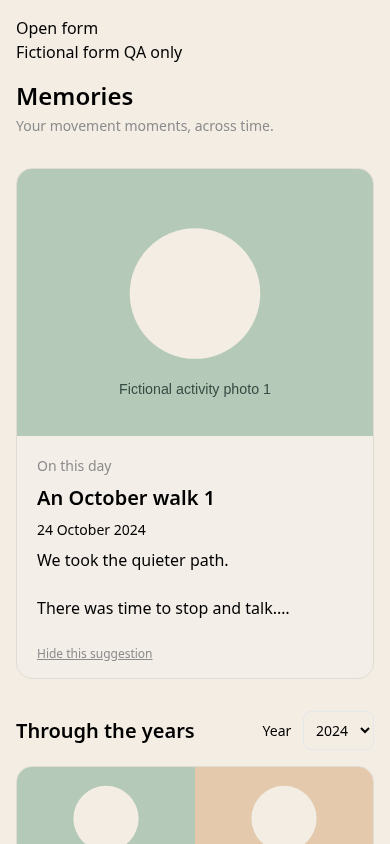
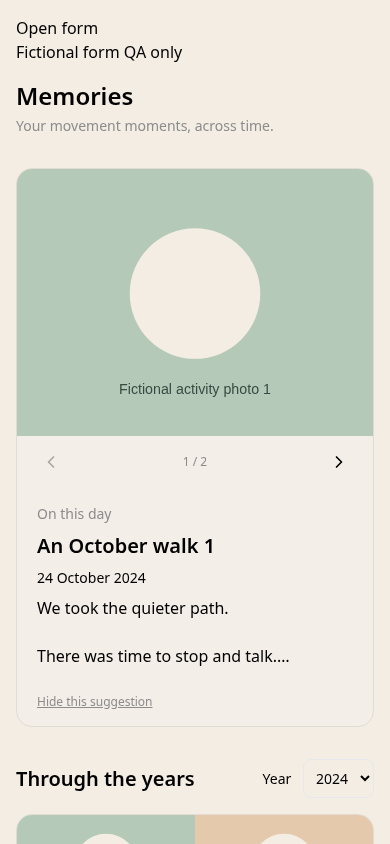
Nav update

diff --git a/src/pages/MemoriesPage.tsx b/src/pages/MemoriesPage.tsx
@@ -7,6 +7,7 @@ import { getActivityPhotos } from '../lib/photos';
 import { ACTIVITY_TYPES } from '../config/activityTypes';
 import { signStorageValues } from '../services/storage.service';
 import { supabase } from '../supabaseClient';
+import MemoryHighlightPhotos from '../components/MemoryHighlightPhotos';
 
 function Photo({path,urls,className=''}:{path?:string|null;urls:Record<string,string>;className?:string}) {
   return path&&urls[path] ? <img loading="lazy" src={urls[path]} alt="" className={className} onError={e=>{e.currentTarget.style.display='none';}}/> : null;
@@ -52,7 +53,7 @@ export default function MemoriesPage() {
   const more=async()=>{if(!month||pageLoading)return;const ticket=request.current;setPageLoading(true);setPageError(false);try{const range=monthRange(month);const data=await memoryPage(range.start,range.end,rows.at(-1));if(ticket!==request.current)return;setRows(prev=>[...prev,...data]);setHasMore(data.length===40);}catch{setPageError(true);}finally{if(ticket===request.current)setPageLoading(false);}};
   useEffect(()=>{
     let cancelled=false;
-    const paths=[...months.filter(m=>m.month.startsWith(year||'')).flatMap(m=>m.thumbs||[]),...rows.flatMap(r=>getActivityPhotos(r).slice(0,1).map(p=>p.thumb_path||p.image_path)),...(feature?.activity?getActivityPhotos(feature.activity).slice(0,1).map(p=>p.image_path||p.thumb_path):[])].filter((p):p is string=>!!p);
+    const paths=[...months.filter(m=>m.month.startsWith(year||'')).flatMap(m=>m.thumbs||[]),...rows.flatMap(r=>getActivityPhotos(r).slice(0,1).map(p=>p.thumb_path||p.image_path)),...(feature?.activity?getActivityPhotos(feature.activity).map(p=>p.image_path||p.thumb_path):[])].filter((p):p is string=>!!p);
     void signStorageValues([...new Set(paths)]).then(signed=>{if(!cancelled)setUrls(signed);}).catch(()=>{});
     return()=>{cancelled=true;};
   },[months,rows,feature,year]);
@@ -71,8 +72,9 @@ export default function MemoriesPage() {
     <header><h1 className="text-2xl font-semibold">Memories</h1><p className="text-sm text-movenotes-muted mt-1">Your movement moments, across time.</p></header>
     {!months.length&&<p className="py-10 text-movenotes-muted">Your activities will be here to revisit whenever you like.</p>}
     {!month&&feature?.activity&&<section ref={featureElement} className="rounded-2xl overflow-hidden border border-movenotes-border bg-movenotes-surface">
+      <MemoryHighlightPhotos key={`${feature.activity.id}:${getActivityPhotos(feature.activity).map(photo=>photo.id).join(',')}`} photos={getActivityPhotos(feature.activity)} urls={urls}
+        onOpen={photoId=>openMemory(feature.activity!.id,{...monthRange(feature.activity!.date.slice(0,7)),photoId})}/>
       <button className="w-full text-left" onClick={()=>openMemory(feature.activity!.id,monthRange(feature.activity!.date.slice(0,7)))}>
-        <Photo path={getActivityPhotos(feature.activity)[0]?.image_path||getActivityPhotos(feature.activity)[0]?.thumb_path} urls={urls} className="w-full max-h-80 object-cover"/>
         <div className="p-5 space-y-2"><p className="text-sm text-movenotes-muted">{featureLabels[feature.tier??2]}</p><h2 className="text-xl font-semibold">{feature.activity.title||ACTIVITY_TYPES[feature.activity.type]?.label||'Activity'}</h2><p className="text-sm">{new Date(`${feature.activity.date}T12:00:00`).toLocaleDateString('en-GB',{day:'numeric',month:'long',year:'numeric'})}</p>{feature.activity.notes&&<p className="line-clamp-3 whitespace-pre-wrap">{feature.activity.notes.slice(0,180)}</p>}</div>
       </button>
       <button className="text-xs underline px-5 pb-4 text-movenotes-muted" onClick={()=>{setHideError(false);void memoryFeatureAction(feature.day,feature.id!,true).then(()=>setFeature(null)).catch(()=>setHideError(true));}}>Hide this suggestion</button>{hideError&&<p role="alert" className="px-5 pb-3 text-sm">Couldn't hide this suggestion. Please try again.</p>}

diff --git a/src/components/Layout.tsx b/src/components/Layout.tsx
@@ -9,6 +9,8 @@ import {
 import { Link, useLocation, useNavigate } from "react-router-dom";
 import Sidebar from "./Sidebar";
 import AppHeader from "./AppHeader";
+import { BookOpen, Users, ChartLine } from "lucide-react";
+import MemoriesAlbumIcon from "./MemoriesAlbumIcon";
 import { usePwaInstallBanner } from "../hooks/usePwaInstallBanner";
 import PwaInstallBanner from "./PwaInstallBanner";
 import { LayoutChromeContext } from "../contexts/LayoutChromeContext";
@@ -255,7 +257,7 @@ export default function Layout({
         mx-auto 
         w-full 
         max-w-md sm:max-w-lg md:max-w-2xl lg:max-w-3xl 
-        px-4 pb-20 pt-2
+        px-4 pb-[calc(104px+env(safe-area-inset-bottom))] pt-2
       "
         >
           {/* Page content */}
@@ -270,6 +272,7 @@ export default function Layout({
           <nav className="fixed bottom-0 left-0 right-0 z-30 bg-movenotes-bg/95 backdrop-blur border-t-[3px] border-movenotes-border shadow-[0_-4px_14px_rgba(0,0,0,0.09)]">
             <div className="mx-auto max-w-md sm:max-w-lg md:max-w-2xl lg:max-w-3xl px-2 py-3 flex items-center gap-1 pb-[max(12px,env(safe-area-inset-bottom))]">
               {bottomNavItems.map((item) => {
+                const Icon = item.to === "/" ? BookOpen : item.to === "/circle" ? Users : ChartLine;
                 const isActive =
                   item.to === "/"
                     ? isJournalRoute
@@ -293,21 +296,23 @@ export default function Layout({
                     key={item.to}
                     type="button"
                     onClick={handleClick}
-                    className={`flex-1 text-center text-sm font-medium rounded-full py-2 transition ${
+                    className={`min-w-0 flex-1 text-center text-xs font-medium rounded-2xl py-2 transition ${
                       isActive
                         ? "bg-movenotes-primary/15 text-movenotes-primary shadow-sm border border-movenotes-primary/20"
                         : "text-movenotes-text/80 hover:text-movenotes-text bg-transparent"
                     }`}
                     aria-current={isActive ? "page" : undefined}
                   >
-                    <span className="inline-flex items-center justify-center gap-1">
-                      {item.label}
+                    <span className="inline-flex max-w-full flex-col items-center justify-center gap-1">
+                      {item.to === "/memories" ? <MemoriesAlbumIcon /> : <Icon size={24} strokeWidth={1.7} aria-hidden="true" />}
+                      <span className="relative max-w-full [overflow-wrap:anywhere]">{item.label}
                       {item.to === "/circle" && showCircleDot && !isCircleRoute && (
                         <span
-                          className="inline-block h-2 w-2 rounded-full bg-movenotes-primary"
+                          className="absolute -right-2 top-0 h-2 w-2 rounded-full bg-movenotes-primary"
                           aria-hidden="true"
                         />
                       )}
+                      </span>
                     </span>
                   </button>
                 );

diff --git a/src/components/MemoryHighlightPhotos.tsx b/src/components/MemoryHighlightPhotos.tsx
@@ -1,0 +1,45 @@
+import { useRef, useState } from 'react';
+import { ChevronLeft, ChevronRight } from 'lucide-react';
+import type { ActivityPhoto } from '../lib/photos';
+
+export default function MemoryHighlightPhotos({ photos, urls, onOpen }: {
+  photos: ActivityPhoto[]; urls: Record<string, string>; onOpen: (photoId: string) => void;
+}) {
+  const track = useRef<HTMLDivElement>(null);
+  const [index, setIndex] = useState(0);
+  const [failed, setFailed] = useState<string[]>([]);
+  const move = (next: number) => {
+    const element = track.current;
+    if (element) element.scrollTo({ left: Math.max(0, Math.min(photos.length - 1, next)) * element.clientWidth });
+  };
+  if (!photos.length) return null;
+  return <div role="group" aria-label="Highlight photos">
+    <div ref={track} className="flex overflow-x-auto snap-x snap-mandatory [scrollbar-width:none] [&::-webkit-scrollbar]:hidden"
+      onScroll={event => { const el = event.currentTarget; if (el.clientWidth) setIndex(Math.max(0, Math.min(photos.length - 1, Math.round(el.scrollLeft / el.clientWidth)))); }}
+      onKeyDown={event => {
+        if (event.key === 'ArrowRight' || event.key === 'ArrowLeft') {
+          event.preventDefault();
+          const next = Math.max(0, Math.min(photos.length - 1, index + (event.key === 'ArrowRight' ? 1 : -1)));
+          move(next);
+          event.currentTarget.querySelectorAll('button')[next]?.focus({ preventScroll: true });
+        }
+      }}>
+      {photos.map((photo, position) => {
+        const path = photo.image_path || photo.thumb_path;
+        return <button key={photo.id} type="button" aria-label={`Open highlight photo ${position + 1}`}
+          className="w-full shrink-0 snap-center aspect-[4/3] max-h-80 bg-movenotes-bg"
+          onClick={() => onOpen(photo.id)}>
+          {path && urls[path] && !failed.includes(path)
+            ? <img src={urls[path]} alt={`Activity photo ${position + 1}`} loading="lazy" className="w-full h-full object-contain"
+              onError={() => setFailed(previous => [...previous, path])} />
+            : <span className="text-sm text-movenotes-muted">Photo unavailable</span>}
+        </button>;
+      })}
+    </div>
+    {photos.length > 1 && <div className="flex items-center justify-between px-3 pt-1">
+      <button type="button" aria-label="Previous highlight photo" disabled={index === 0} className="p-3 disabled:opacity-30" onClick={() => move(index - 1)}><ChevronLeft size={20} aria-hidden="true" /></button>
+      <span role="status" className="text-xs text-movenotes-muted">{index + 1} / {photos.length}</span>
+      <button type="button" aria-label="Next highlight photo" disabled={index === photos.length - 1} className="p-3 disabled:opacity-30" onClick={() => move(index + 1)}><ChevronRight size={20} aria-hidden="true" /></button>
+    </div>}
+  </div>;
+}

diff --git a/src/components/MemoriesAlbumIcon.tsx b/src/components/MemoriesAlbumIcon.tsx
@@ -1,0 +1,7 @@
+import albumMark from "../assets/icons/memories-album.svg";
+
+/** Supplied album vector, masked so it inherits the navigation's current color. */
+export default function MemoriesAlbumIcon() {
+  return <span aria-hidden="true" className="inline-block h-6 w-6 shrink-0 bg-current"
+    style={{ mask: `url("${albumMark}") center / contain no-repeat`, WebkitMask: `url("${albumMark}") center / contain no-repeat` }} />;
+}

diff --git a/docs/memories-v1.md b/docs/memories-v1.md
@@ -32,15 +32,19 @@ The current day's assignment also refreshes after local-date rollover.
 ## Deterministic featured selection
 
 - Minimum age: 90 local calendar days, for suggestions only.
-- Date tiers: exact prior-year anniversary; prior-year anniversary within ±14 days;
+- Date tiers: exact prior-year anniversary; prior-year anniversary within ±30 days;
   other eligible history. Windows cross New Year. February 29 is never labelled an
   exact February 28 anniversary; non-leap years use March 1 for its nearby window
   only, while exact matching always requires the original month/day.
 - Permanently exclude hidden suggestions. Exclude activities actually displayed
   in the previous 30 days, except the current day's own assigned activity.
 - Within the best tier, rotate with a user/date/activity hash. Every third calendar
-  day prefers sparse entries when both sparse and photo/note entries exist; other
-  days lightly prefer photos/notes. No metrics, feelings or sentiment affect choice.
+  day prefers sparse entries, then other photo-free activities; other days prefer
+  photos, then notes. Exact anniversaries always remain first. When the nearby
+  window has no photos and there is no exact anniversary, one day in each three-day
+  cycle can instead feature an eligible photo from anywhere in the older archive,
+  labelled “A moment to revisit.” It retains the 90-day minimum age and all hide/
+  exposure exclusions. No metrics, feelings or sentiment affect choice.
 - Persist one assignment, including an empty assignment, per user/local day.
   A transaction advisory lock and primary key serialize simultaneous assignments.
   The server derives the day using the browser's local IANA zone (matching existing
@@ -55,6 +59,13 @@ The current day's assignment also refreshes after local-date rollover.
 `20261024000000_memories.sql` adds lightweight `memory_days` and
 `memory_dismissals` tables, owner policies, indexes and RPCs. It does not change
 existing activity records. There are no new secrets, AI calls or Edge Functions.
+
+`20261024010000_memory_highlight_photos.sql` updates the date window and selection
+functions. It preserves existing daily assignments, dismissals and exposure
+history; broader selection takes effect for the next unassigned day. The highlight
+now includes a native swipe/scroll photo gallery with keyboard/arrow controls and
+a counter. Opening a photo enters the existing Memory reader at that photo.
+Photos keep their original aspect ratio within the highlight frame.
 
 Apply locally without clearing development data:
 
@@ -82,14 +93,14 @@ Fixtures cover multiple years, 45 activities, multiline words, multiple photos,
 feelings, sparse Polar data, missing/empty/recent-only history and simulated errors.
 SVG photo placeholders are explicitly fictional; all Supabase network is blocked.
 
-The full Supabase verifier could not start here because Docker's socket was
-unavailable. The actual new migration and SQL assertions instead passed in a
-temporary PGlite PostgreSQL database with minimal auth/activity/owner-policy
-fixtures. This verifies SQL execution and the new rules, but does not replace
-replaying the complete baseline in Supabase. Run the isolated verifier with Docker
-before rollout. Browser tests use fictional auth/storage; real-account storage
-authorization, physical phone gestures/keyboard and multi-device concurrency need
-an authenticated development smoke test. No production data was accessed.
+The full isolated Supabase verifier passed on 24 October 2026: it replayed the
+production baseline and all migrations, then ran all database behavior tests,
+including both Memories suites. This resolves the earlier V1 Docker limitation.
+The two Memories migrations and SQL assertions also passed in temporary PGlite
+PostgreSQL. The normal development database was not reset. Browser tests use
+fictional auth/storage; real-account storage authorization, physical phone
+gestures/keyboard and multi-device concurrency still need an authenticated
+development smoke test. No production data was accessed.
 
 The optional P1 Journal invitation is not included.
 
@@ -110,11 +121,11 @@ The optional P1 Journal invitation is not included.
   date boundaries, distinct-photo collections and connected UI regression checks.
 
 Verification: 141 Vitest tests passed; production build and focused ESLint passed.
-The new migration and PostgreSQL assertions passed in temporary PGlite as described
-above. The browser journey passed 55 assertions across mobile, desktop and enlarged
+Full isolated Supabase schema verification and the additional PGlite assertions
+passed. The browser journey passed 63 assertions across mobile, desktop and enlarged
 text, including pagination, Back, Calendar/Photos reader entry, gallery, missing
-photo/error recovery, edit-save/cancel, unsaved changes, direct URLs and deletion.
-The Docker/Supabase limitation above remains outstanding before rollout.
+photo/error recovery, highlight photo navigation and selected-photo reader entry,
+edit-save/cancel, unsaved changes, direct URLs and deletion.
 
 Representative fictional screenshots:
 

diff --git a/src/assets/icons/README.md b/src/assets/icons/README.md
@@ -1,0 +1,3 @@
+MoveNotes Memories: album direction
+
+Original vector interpretation of a bound photo album, informed by the user reference. This is a custom icon, not an official Tabler asset. 24x24 grid, 1.7px stroke, rounded caps and joins, currentColor. Two binding rings and one simple inset image maintain readability at navigation size. Journal remains the open-book icon. Use a visible Memories label and aria-hidden on the decorative SVG.
